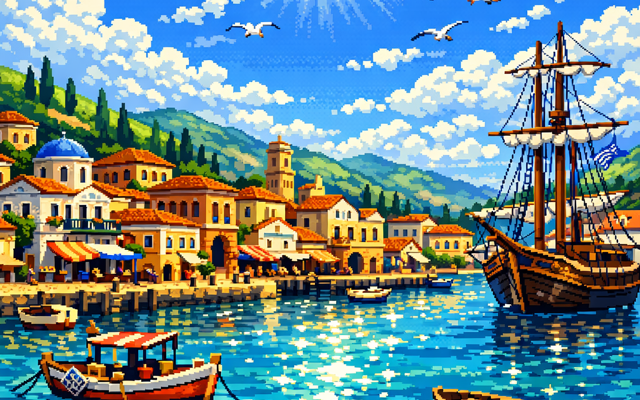
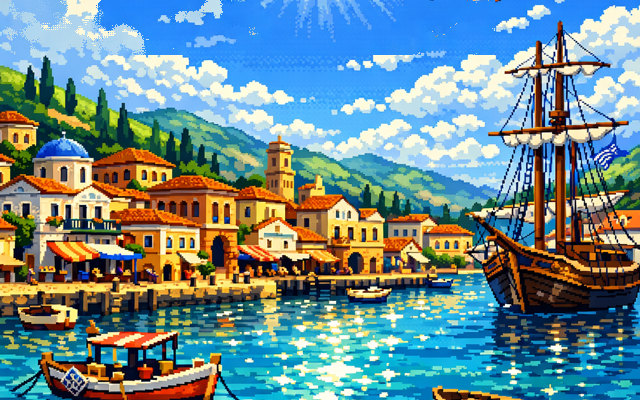
feat: animated title screen — scanline water, seagulls, walking people
- Scanline displacement on water (classic Monkey Island raster effect)
- Sun sparkles on water surface
- Animated seagulls flying across the sky
- Tiny people strolling along the dock
- Removed static seagulls from background image (texture-aware fill)
- Clean sky for animated birds only

diff --git a/index.html b/index.html
@@ -2336,6 +2336,43 @@ function drawTitleScreen(tick) {
       ctx.stroke();
       ctx.restore();
     }
+    // Tiny people strolling along the dock
+    const walkers = [
+      { x0: 140, range: 40, speed: 0.06, y: 262, phase: 0,   shirt: '#9A3030', pants: '#4A4A56' },
+      { x0: 280, range: 35, speed: -0.05, y: 263, phase: 80,  shirt: '#2858A0', pants: '#3A3A48' },
+      { x0: 380, range: 30, speed: 0.07, y: 261, phase: 200, shirt: '#D09040', pants: '#484854' },
+    ];
+    ctx.globalAlpha = 0.7;
+    for (const p of walkers) {
+      const cycle = p.range * 2;
+      const raw = ((tick * Math.abs(p.speed) + p.phase) % cycle);
+      const wx = p.x0 + (raw < p.range ? raw : cycle - raw);
+      const dir = p.speed > 0 ? (raw < p.range ? 1 : -1) : (raw < p.range ? -1 : 1);
+      const step = Math.floor(tick * Math.abs(p.speed) * 0.4 + p.phase) % 2;
+
+      ctx.save();
+      ctx.translate(Math.floor(wx), p.y);
+      if (dir < 0) ctx.scale(-1, 1);
+
+      // Head (2x1)
+      ctx.fillStyle = '#D4AC80';
+      ctx.fillRect(0, 0, 2, 1);
+      // Torso (2x2)
+      ctx.fillStyle = p.shirt;
+      ctx.fillRect(0, 1, 2, 2);
+      // Legs (2-frame)
+      ctx.fillStyle = p.pants;
+      if (step === 0) {
+        ctx.fillRect(0, 3, 1, 2);
+        ctx.fillRect(1, 3, 1, 1);
+      } else {
+        ctx.fillRect(0, 3, 1, 1);
+        ctx.fillRect(1, 3, 1, 2);
+      }
+
+      ctx.restore();
+    }
+    ctx.globalAlpha = 1;
   } else {
     ctx.fillStyle = '#4A9FD8';
     ctx.fillRect(0, 0, GW, GH);
